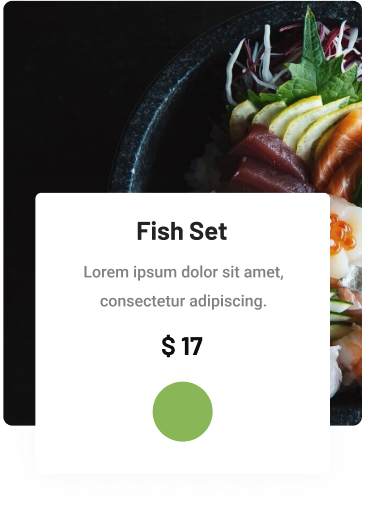
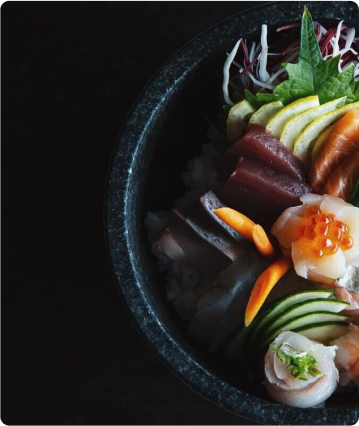
second section

diff --git a/index.html b/index.html
@@ -62,14 +62,40 @@
     <div class="header">Thai fast food</div>
 
     <div class="menu">
-      <div class="item item_1">
-          <div class="item_box"></div>
+      <div class="item">
+        <img src="images/combo.png" alt="combo dish">
+        <div class="item_box">
+          <div class="item_header">Thai Combo</div>
+          <div class="item_text">Lorem ipsum dolor sit amet, consectetur adipiscing.</div>
+          <div class="item_price">$ 12</div>
+          <div class="item_buy">
+            <img src="images/cart.png" alt="buy icon">
+          </div>
+        </div>
       </div>
-      <div class="item item_2">
-          <div class="item_box"></div>
+
+      <div class="item">
+        <img src="images/pizza.png" alt="combo dish">
+        <div class="item_box">
+          <div class="item_header">Thai Pizza</div>
+          <div class="item_text">Lorem ipsum dolor sit amet, consectetur adipiscing.</div>
+          <div class="item_price">$ 14</div>
+          <div class="item_buy">
+            <img src="images/cart.png" alt="buy icon">
+          </div>
+        </div>
       </div>
-      <div class="item item_3">
-          <div class="item_box"></div>
+
+      <div class="item">
+        <img src="images/fish.png" alt="combo dish">
+        <div class="item_box">
+          <div class="item_header">Fish Set</div>
+          <div class="item_text">Lorem ipsum dolor sit amet, consectetur adipiscing.</div>
+          <div class="item_price">$ 17</div>
+          <div class="item_buy">
+            <img src="images/cart.png" alt="buy icon">
+          </div>
+        </div>
       </div>
     </div>
   </section>

diff --git a/style.css b/style.css
@@ -165,28 +165,24 @@
 .item{
     width: 359px;
     height: 425px;
+    position: relative;
 }
 
-.item_1{
-    background: url("images/combo.png");
+.item img{
+    position: absolute;
+    z-index: 1
 }
 
-.item_2{
-    background: url("images/combo.png");
-}
-
-.item_3{
-    background: url("images/combo.png");
-}
 
 .item_box{
-    color: white;
+    background-color: white;
     width: 295px;
     height: 280px;
-    text-align: center;
-    margin-top: 210px;
     position: absolute;
     z-index: 2;
+    border-radius: 6px;
+    top: 210px;
+    left: 32px;
 }
 
 .item_header{
@@ -195,7 +191,8 @@
     font-weight: 700;
     font-size: 25.6px;
     color: #232323;
-    margin-bottom: 14.5px;
+    margin-top: 24px;
+    text-align: center;
 }
 
 .item_text{
@@ -204,4 +201,34 @@
     width: 200px;
     font-weight: 500;
     font-size: 16px;
+    text-align: center;
+    margin-top: 5px;
+    margin-left: 48px;
+}
+
+.item_price{
+    color: #0E0E0E;
+    margin-top: 16.6px;
+    font-family: 'Barlow', sans-serif;
+    font-style: normal;
+    font-weight: 700;
+    font-size: 25.6px;
+    text-align: center;
+}
+
+.item_buy{
+    height: 60px;
+    width: 60px;
+    border-radius: 100%;
+    margin-top: 23.6px;
+    background-color: #89B758;
+    margin-left: 117.3px;
+    display: flex;
+    justify-content: center;
+    align-items: center;
+}
+
+.item_buy img{
+    height: 30px;
+    width: 30px;
 }
